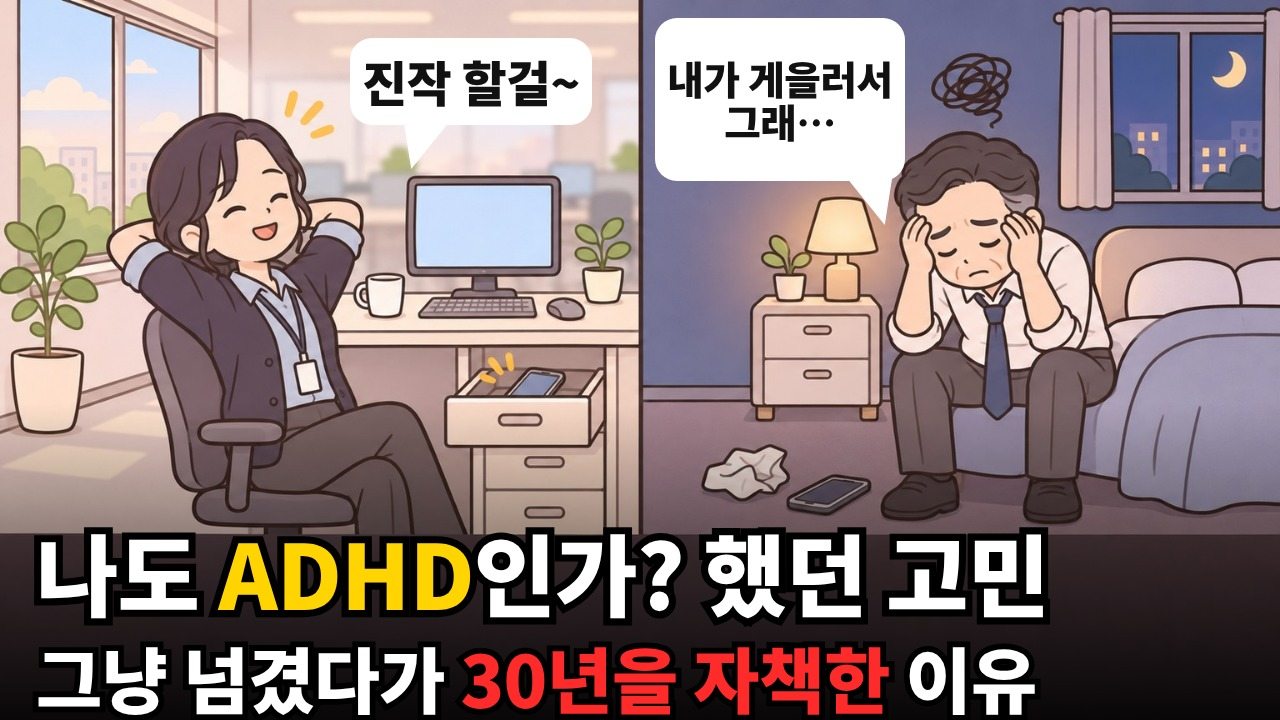
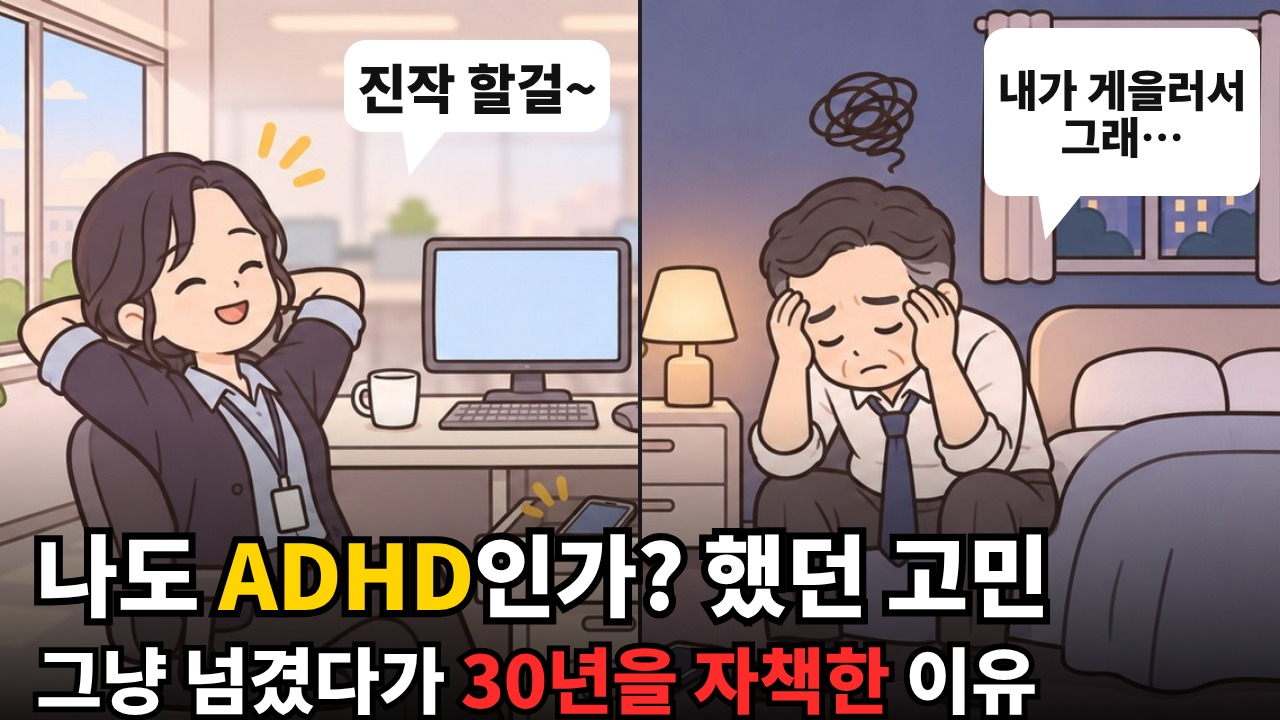
psychology: ADHD 영상 다시 올리기 준비 — 썸네일 그림 화면 끝까지 · 설명란 소개·챕터 ADHD 검색 낱말 · 알려 드립니다 짧게
- thumbs_build.py v1.8: TH-CHAR 아래 어두운 띠를 빼고 A·B 칸을 따로 잘라 1280×720 을 채움, 문구는 그림 위
- upload_sheets.py v1.2: 소개 2줄·챕터 9개(adhd_words.md 낱말) · notice 2줄 · 태그 500자 점검
- youtube.json → youtube_old_20261124.json (PC 업로드 목록에 다시 나오게 · 옛 영상 Va58wN8mnt0 은 스튜디오에서 지움)

Claude-Session: https://claude.ai/code/session_01PYG2MqrRa1FwGcWhbgqN1W

diff --git a/psychology/source/upload_sheets.py b/psychology/source/upload_sheets.py
@@ -1,10 +1,12 @@
 #!/usr/bin/env python3
 # -*- coding: utf-8 -*-
-# VERSION: v1.1 — 2026-11-24 — adhd-ab-2026-11 (사용자 지시 "그냥 하고 업로드 준비해"): 편마다 공개 순서 메모·실험 제목(thumb_tests)·title_fit·관문 메모 · --only · 보조 문구 여러 개
+# VERSION: v1.2 — 2026-11-24 — adhd-ab-2026-11 다시 올리기: 소개 2줄·챕터 이름을 ADHD 검색 낱말로 (`adhd_words.md`) · 알려 드립니다 짧게(편마다 notice) · 태그 500자 점검 — 사용자 지시 "설명을 알려드립니다는 좀 간단하게 써 맨앞 설명과 구간 설명은 알고리즘이 보니까 … ADHD 관련 영상 시청자들에게 추천할 수 있도록 단어 고려해서 써 수정하고 다시 업로드 할 수 있게해"
+# (v1.1) — 2026-11-24 — adhd-ab-2026-11 (사용자 지시 "그냥 하고 업로드 준비해"): 편마다 공개 순서 메모·실험 제목(thumb_tests)·title_fit·관문 메모 · --only · 보조 문구 여러 개
 # 이전 v1.0 — 2026-11-14 — 심리 네 편 업로드 시트 upload.md (사용자 지시 "업로드 시트 만들고 uploads 브랜치에 올려")
 # CHANGELOG
 # | 버전 | 날짜 | 바뀐 것 | 함수 |
 # |---|---|---|---|
+# | v1.2 | 2026-11-24 | 편마다 notice(공통 NOTICE + notice_extra 대신 짧은 글) · reupload 메모 · 태그 길이 점검(YouTube 500자 — 띄어쓰기 있는 태그는 따옴표 2자) · adhd-ab-2026-11 소개·챕터·태그 다시 | EP · build |
 # | v1.1 | 2026-11-24 | adhd-ab-2026-11 · order_note · thumb_tests 실험 제목 · title_fit_note · gate_note · sources_file · --only | EP · build · main |
 # | v1.0 | 2026-11-14 | 최초 — 제목(package.json) · 설명란(소개 2줄 · 챕터 · 출처 · 알려 드립니다 · 해시태그 2) · 챕터 명령 · 태그 · 고정 댓글 · 설정 · 점검 | build · main |
 """psychology/source/<영상ID>/upload.md 를 쓴다 — tools/youtube_upload.py(read_sheet) · tools/upload_pack.py(check) · PC 업로드 화면이 읽는 꼴.
@@ -24,7 +26,7 @@ import time
 from pathlib import Path
 
 ROOT = Path(__file__).resolve().parents[2]
-VERSION = "v1.1"
+VERSION = "v1.2"
 DATE = "2026-11-24"
 CRISIS = "24시간 정신건강 상담 전화 1577-0199 · 자살예방 상담 전화 109 · 당장 위험하면 119"
 NOTICE = ("이 영상은 연구와 상담 글을 바탕으로 한 교육용 콘텐츠이며, 심리 진단이나 치료가 아닙니다.\n"
@@ -106,9 +108,18 @@ EP = {
         "order": 5,
         "instr": "그냥 하고 업로드 준비해",
         "order_note": "이미 올린 심리 4편 다음 — 공개 시각은 PC 업로드 화면 기본(7일 뒤 17:00) 또는 사용자가 정함",
-        "intro": "할 일을 미루고 휴대폰만 보다 하루가 가 버린 적, '혹시 나도 성인 ADHD일까' 고민해 본 적 있나요? 같은 고민 앞에서 바로 검사를 받은 A씨와 그냥 넘긴 B씨의 삶을 비교했습니다.\n"
-                 "병원에서는 무엇을 확인하는지, 치료를 시작하면 무엇이 달라지고 무엇은 그대로인지, 스스로 물어볼 세 가지까지 정리했습니다.",
-        "chapters": "1=두 사람의 고민;8=똑같은 하루;18=갈림길;29=A씨, 알고 난 뒤;41=B씨, 모르고 산 30년;54=숫자로 본 차이;61=애매한 나는?;71=B씨에게 온 순간",
+        # v1.2 다시 올리기 (사용자 지시 2026-11-24 "… 수정하고 다시 업로드 할 수 있게해") — 첫 업로드 기록은 youtube_old_20261124.json
+        "reupload": "첫 업로드 Va58wN8mnt0 (2026-11-24 · 비공개 · 예약 2026-12-01 17:00 KST) → 썸네일(그림을 화면 끝까지)·설명란을 고쳐 **다시 올림**. "
+                    "올리기 전에 스튜디오에서 옛 영상 Va58wN8mnt0 을 지운다 (안 지우면 그 시각에 같은 영상이 하나 더 공개됨 — 반복 콘텐츠). 기록 `youtube_old_20261124.json`.",
+        # v1.2 소개 2줄 = 검색 결과·추천에 보이는 앞부분 → ADHD 영상에서 많이 쓰인 낱말을 앞에 (`psychology/result/topics/adhd_words.md`:
+        #   제목 '성인' 34%·'나도' 4.4배·'치료' 2.9배·'집중력' 2.9배 · 태그 '성인adhd'·'adhd치료'·'adhd증상'·'adhd약'·'adhd진단'·'adhd테스트'·'우울증' 2.7배·'부부' 4.1배)
+        #   — 영상에 실제로 나오는 말만 (공황장애·콘서타처럼 영상에 없는 낱말은 넣지 않음: 오해를 부르는 메타데이터 ✗)
+        "intro": "성인 ADHD 증상일까, 그냥 게으른 걸까? 할 일을 미루고 휴대폰만 보다 '나는 왜 이렇게 게으를까' 자책하던 두 사람 중, 바로 ADHD 검사를 받은 A씨와 '시간 낭비'라며 넘긴 B씨의 삶을 비교했습니다.\n"
+                 "성인 ADHD 진단 과정, ADHD 약 치료와 습관으로 달라진 일상, 모르고 산 30년의 부부 갈등과 우울, ADHD 약물 치료 연구(BMJ 2025), 나도 ADHD인지 스스로 확인할 세 가지까지 정리했습니다.",
+        # v1.2 챕터 이름 = 그 구간에서 실제로 하는 말 + 검색 낱말 (21 = 병원에서 확인하는 것 — 새 구간)
+        "chapters": "1=성인 ADHD일까, 그냥 게으른 걸까;8=ADHD 증상, 미루기와 과몰입;18=ADHD 검사를 받은 사람 vs 넘긴 사람;21=성인 ADHD 진단 과정;"
+                    "29=ADHD 약 먹은 첫날과 1년 뒤 (약과 습관);41=모르고 산 30년, 부부 갈등과 자책;54=ADHD 약물 치료 연구 (BMJ 2025);"
+                    "61=나도 ADHD? 스스로 확인할 3가지;71=아들의 ADHD 진단과 가족력",
         "sources": [
             "국민건강보험공단 ADHD 진료 인원 (20세 이상) — 남인순 의원실 공개(2020~2024) · 권칠승 의원실 공개(2026-09-28, 2020~2025) · 보도: 헤럴드경제 2025-10 · 메디칼타임즈",
             "Zhang L 외 (2025). ADHD drug treatment and risk of suicidal behaviours, substance misuse, accidental injuries, transport accidents, and criminality: emulation of target trials. BMJ, 390, e083658 (스웨덴 등록 자료 · 6~64세 148,581명 · 관찰 연구).",
@@ -122,10 +133,15 @@ EP = {
         "sources_file": "근거.md",
         "notice_extra": ("A씨와 B씨는 실제 댓글을 바탕으로 만든 가상 인물이며, 두 사람의 이야기가 모든 사람에게 같지는 않습니다. 검사를 받아도 ADHD가 아닐 수 있고, "
                          "잠 부족·우울·불안 때문에도 집중은 흐트러집니다. 약은 전문의와 상의해서 정하세요. BMJ 연구는 기록을 비교한 관찰 연구라 차이가 모두 약 덕분이라고 단정할 수 없습니다."),
+        # v1.2 알려 드립니다 = 짧게 (사용자 지시 "알려드립니다는 좀 간단하게 써") — 공통 NOTICE + notice_extra 대신 이 두 줄
+        "notice": ("교육용 영상이며 진단이나 치료를 대신하지 않습니다. A씨·B씨는 실제 댓글을 바탕으로 만든 가상 인물입니다.\n"
+                   "ADHD 여부와 약은 전문의와 상의하세요. BMJ 연구는 관찰 연구라 차이가 모두 약 덕분이라고 단정할 수 없습니다."),
         "crisis": "자살예방 상담 전화 109 · 24시간 정신건강 상담 전화 1577-0199 · 당장 위험하면 119",
         "hashtags": "#성인ADHD #ADHD",
-        "tags": ["성인ADHD", "성인 ADHD", "ADHD", "ADHD 증상", "성인 ADHD 증상", "ADHD 검사", "ADHD 진단", "ADHD 치료", "ADHD 자가진단", "ADHD 테스트",
-                 "나도 ADHD", "집중력", "미루기", "게으름", "자책", "정신건강의학과", "정신과", "우울증", "번아웃", "도파민", "부부 갈등"],
+        # v1.2 태그 = adhd_words.md 2번(실제 ADHD 영상 태그) 중 영상에 나오는 말 — 번아웃·도파민(영상에 없음)은 뺌
+        "tags": ["성인ADHD", "성인 ADHD", "ADHD", "ADHD 증상", "성인 ADHD 증상", "ADHD 검사", "ADHD 진단", "ADHD 치료", "ADHD 약", "ADHD 약물치료",
+                 "ADHD 자가진단", "ADHD 테스트", "ADHD 특징", "나도 ADHD", "집중력", "미루기", "게으름", "자책", "정신건강의학과", "정신과",
+                 "신경정신과", "우울증", "부부 갈등", "가족력"],
         "pin": "'혹시 나도?' 했던 적이 있다면, 세 가지 질문(어릴 때부터 · 두 곳 이상 · 같은 손해 반복) 가운데 몇 개에 해당했는지 남겨 주세요.\n교육용 영상이며 진단이 아닙니다. 판단은 전문의 검사로 해 주세요.",
         "title_fit_note": "`title_fit`: 모바일 홈·검색 2줄 ✅ · PC '다음 동영상' 칸 3줄 ❌ (사용자 제목 — 그대로)",
         "gate_note": "사용자 지시 '일단 지시사항 대로 하지말고'(대본) · '그냥 하고 업로드 준비해' — 대본 이탈·반론 단계는 돌리지 않음",
@@ -156,11 +172,16 @@ def build(ep: str, sp: dict) -> str:
             raise SystemExit(f"[SHEET] {ep} 챕터 문장 번호 {k} 가 대본(1~{n}) 밖")
     names = [p.split("=", 1)[1] for p in sp["chapters"].split(";")]
     desc = (sp["intro"] + "\n\n■ 챕터\n" + "\n".join(f"0:00 {x}" for x in names) + "\n\n■ 출처\n" + "\n".join(f"- {s}" for s in sp["sources"])
-            + "\n\n■ 알려 드립니다\n" + NOTICE + "\n" + sp["notice_extra"] + "\n\n■ 도움받을 곳\n" + sp["crisis"] + "\n\n" + sp["hashtags"])
+            + "\n\n■ 알려 드립니다\n" + (sp.get("notice") or NOTICE + "\n" + sp["notice_extra"])          # v1.2 편마다 짧은 notice
+            + "\n\n■ 도움받을 곳\n" + sp["crisis"] + "\n\n" + sp["hashtags"])
     tags = []
     for t in sp["tags"] + COMMON_TAGS:
         if t not in tags:
             tags.append(t)
+    tag_chars = sum(len(t) + (2 if " " in t else 0) for t in tags) + len(tags) - 1     # v1.2 YouTube 태그 500자 (띄어쓰기 있는 태그는 따옴표 2자 · 쉼표)
+    if tag_chars > 500:
+        raise SystemExit(f"[SHEET] {ep} 태그 {tag_chars}자 > 500 — 뒤쪽 태그를 뺀다")
+    log("META", ep=ep, intro_chars=len(sp["intro"]), desc_chars=len(desc), tags=len(tags), tag_chars=tag_chars, chapters=len(names))
     th = pkg["thumb_main"]
     sub = " · ".join(pkg["thumb_sub"]) if isinstance(pkg.get("thumb_sub"), list) else str(pkg.get("thumb_sub", "")).strip('"')
     if pkg.get("thumb_tests") and pkg["thumb_tests"][0].get("title"):          # v1.1 글이 다른 실험 제목 (사용자 제목)
@@ -179,6 +200,7 @@ def build(ep: str, sp: dict) -> str:
          f"버전: {VERSION} — {DATE} — 최초 (사용자 지시 \"{sp.get('instr', '업로드 시트 만들고 uploads 브랜치에 올려')}\") · 생성 `psychology/source/upload_sheets.py` {VERSION}.",
          f"기준 파일: 대본 `{ep}.txt` ({n}문장) · 오디오 `narration.mp3` · 자막 `{ep}.srt`(align-audio — 실제 오디오) · 영상 `psychology/out/{ep}/final_1080p.mp4`(만스피 꼴 · `video/episodes/{ep}/`) · 썸네일 `thumbnails/thumbnail_1~3.jpg`.",
          "", "> 업로드 채널 = 심리 채널. 연구·교육용 콘텐츠 — 심리 진단·치료가 아님.",
+         *([f"> 🔁 **다시 올리기** — {sp['reupload']}"] if sp.get("reupload") else []),
          "> ⚠ `psychology/youtube_channel.json` 이 아직 없음 → 올리는 도구가 키의 채널을 확인하지 못함. PC 업로드 화면 psychology 탭에는 **심리 채널 키**만 넣는다 (처음 올린 뒤 화면의 '기억'으로 채널 ID 를 남김).",
          "", "## 1. 제목 (본안)", "", "```", title, "```",
          f"- 짝 썸네일 `thumbnail_1.jpg` (「{th[0]} / {th[1]}」 + 말풍선 「{sub}」 — 그림 `images/TH-CHAR.jpg` ChatGPT + 문구 코드 `thumb.mjs`).",

diff --git a/psychology/source/thumbs_build.py b/psychology/source/thumbs_build.py
@@ -1,6 +1,7 @@
 #!/usr/bin/env python3
 # -*- coding: utf-8 -*-
-# VERSION: v1.7 — 2026-11-24 — adhd-ab-2026-11 사용자 제목·문구 3안 + A 말풍선 「진작 할걸~」 한 줄(작게) — 사용자 지시 "제목1 … 제목3 … 이렇게 가고 썸네일 각각 만들어 그리고 글씨 크기 좀 줄여서 한줄에 진작 할걸~ 로 고쳐"
+# VERSION: v1.8 — 2026-11-24 — adhd-ab-2026-11 그림을 화면 끝까지 (아래 어두운 띠 뺌 — 두 칸을 따로 잘라 좌우로) · 문구는 그림 위 · 말풍선은 썸네일 좌표 — 사용자 지시 "썸네일 문구부분은 왜 이미지 영역이 아니야 이미지 꽉채워서 문구넣어야지"
+# (v1.7) — 2026-11-24 — adhd-ab-2026-11 사용자 제목·문구 3안 + A 말풍선 「진작 할걸~」 한 줄(작게) — 사용자 지시 "제목1 … 제목3 … 이렇게 가고 썸네일 각각 만들어 그리고 글씨 크기 좀 줄여서 한줄에 진작 할걸~ 로 고쳐"
 # 이전 v1.6 — 2026-11-24 — adhd-ab-2026-11 A 말풍선 「진작 할걸」 (사용자 지시 "진작 할걸 이렇게 바꾸고")
 # 이전 v1.5 — 2026-11-24 — adhd-ab-2026-11 실험 문구·A 말풍선을 성공 사례 썸네일 분석(thumb_text_patterns.md)으로 — 사용자 지시 "실험형 썸네일 문구 성공 사례 분석해서 한거야? 분석해서 만들고 이유를 아니까를 진작에 할걸(예시) 이런식으로 고쳐봐"
 # 이전 v1.4 — 2026-11-24 — 편마다 3안을 따로 (variants: 안마다 문구 2줄·말풍선 여러 개) — 사용자 지시 "둘다 말풍선 넣고 두번재 줄 괄호 제거해 그리고 나머지 2개는 실험형으로 너가 문구를 만드는 거야"
@@ -12,6 +13,7 @@
 # CHANGELOG
 # | 버전 | 날짜 | 바뀐 것 | 함수 |
 # |---|---|---|---|
+# | v1.8 | 2026-11-24 | 편마다 images(crop·box)·bg 덮어쓰기 · bubbles_px(썸네일 좌표 그대로) — adhd-ab-2026-11 TH-CHAR 아래 26% 어두운 띠를 빼고 왼쪽 칸(A)·오른쪽 칸(B)을 따로 잘라 1280×720 을 채움 | EP · bubble · build_variants |
 # | v1.7 | 2026-11-24 | adhd-ab-2026-11 3안 = 사용자 제목·문구 1~3 · A 말풍선 한 줄 (낮은 상자 → 글씨 작게) | EP |
 # | v1.6 | 2026-11-24 | adhd-ab-2026-11 A 말풍선 「진작 할걸」 (사용자 문구) | EP |
 # | v1.5 | 2026-11-24 | adhd-ab-2026-11 실험 1·2 = 성공 사례 갈래(특징+숫자 · 이유형) · A 말풍선 = 인물 속마음 「진작 검사받을걸!」 | EP |
@@ -70,18 +72,26 @@ EP = {
         "bubble": [1106, 26, 399, 300], "btext": "왜,\n안 어울려?",
         "_": "R 머리(x 50~71% · y 4~39%) 오른쪽 선반·냉장고",
     },
-    # v1.3 — 그림 아래 26% 가 어두운 띠(y 640/864 부터) → 두 줄을 띠 안에 · 말풍선 = B 머리 왼쪽 빈 벽, 꼬리는 오른쪽(B 쪽)으로
+    # v1.8 — 그림 아래 26%(y 640/864 부터)가 어두운 빈 띠 → 문구가 그림 밖에 놓였음 (사용자 지적 2026-11-24).
+    #   그림 칸(y 0~640)만 쓴다: 640 높이로 16:9 를 채우면 폭 1138 < A·B 가 걸친 폭(x 130~1340) → 칸마다 따로 잘라 좌우에 붙임.
+    #   왼쪽 = A 칸 x 112~679 (A 팔꿈치 x≈130 · 모니터 x 490~672 까지) · 오른쪽 = B 칸 x 969~1536 (스탠드·B·낙서 구름·창문) · 가운데 4px 틈 = 원래 칸 나눔 선.
+    #   배율 720/640 = 1.125 — 썸네일 x = (그림 x − 112)×1.125 (왼쪽) · 642 + (그림 x − 969)×1.125 (오른쪽), y = 그림 y×1.125.
     "adhd-ab-2026-11": {
+        "bg": "#24212b",
+        "images": [{"src": "../images/TH-CHAR.jpg", "crop": [112, 0, 567, 640], "box": [0, 0, 638, 720]},
+                   {"src": "../images/TH-CHAR.jpg", "crop": [969, 0, 567, 640], "box": [642, 0, 638, 720]}],
         "l1": [36, 524, 1208, 94], "l2": [36, 616, 1000, 100],
-        # v1.4 두 사람 모두 말풍선 — A 머리 오른쪽 사무실 벽(모니터 위) · B 머리 왼쪽 어두운 벽 (사람·스탠드·낙서 구름을 가리지 않음)
-        "bubbles": [[[420, 46, 290, 104], "진작 할걸~", "right", 0.18], [[786, 22, 300, 196], "내가 게을러서\n그래…", "left", 0.78]],
+        # 말풍선 = 썸네일 좌표 (bubbles_px) — A: 머리(x 76~313 · y 124~371)·반짝 표시(x 256~324) 오른쪽, 모니터(y 236~) 위 사무실 벽
+        #   B: 머리(x 761~964 · y 180~405)·낙서 구름(x 806~919) 오른쪽 창문 (사람·스탠드·구름을 가리지 않음)
+        "bubbles_px": True,
+        "bubbles": [[[344, 40, 266, 92], "진작 할걸~", "right", 0.18], [[984, 28, 276, 168], "내가 게을러서\n그래…", "right", 0.16]],
         "variants": [
             ("1안 — 사용자 제목1·문구1", [[["나도 ", "W"], ["ADHD", "Y"], ["인가? 고민했던 두 사람", "W"]], [["30년 삶의 질이 ", "W"], ["정반대", "Y"], ["가 된 이유", "W"]]]),
             ("2안 — 사용자 제목2·문구2", [[["나도 ", "W"], ["ADHD", "Y"], ["인가? 했던 고민", "W"]], [["30년 삶의 질을 ", "W"], ["바꾼 이유", "Y"]]]),
             ("3안 — 사용자 제목3·문구3", [[["나도 ", "W"], ["ADHD", "Y"], ["인가? 했던 고민", "W"]], [["그냥 넘겼다가 ", "W"], ["30년을 자책한", "R"], [" 이유", "W"]]]),
         ],
-        "note": "1~3안 = 사용자 제목·문구 (2026-11-24) · 말풍선 = 인물 속마음 A 「진작 할걸~」(사용자 문구, 한 줄)·B 「내가 게을러서 그래…」(대본 46번) — persona_loop title 단계는 1안",
-        "_": "B 머리(x 70~82% · y 18~42%) 왼쪽 어두운 벽 (스탠드 x 63~69% · y 27% 아래는 비움) · A 쪽은 비워 둠",
+        "note": "1~3안 = 사용자 제목·문구 (2026-11-24) · 말풍선 = 인물 속마음 A 「진작 할걸~」(사용자 문구, 한 줄)·B 「내가 게을러서 그래…」(대본 46번) — persona_loop title 단계는 1안 · v1.8 그림을 화면 끝까지 (문구는 그림 위)",
+        "_": "A 머리 오른쪽 사무실 벽(모니터 위) · B 머리 오른쪽 창문 — 썸네일 좌표, 사람·스탠드·낙서 구름을 가리지 않음",
     },
 }
 
@@ -94,8 +104,8 @@ def lines(box, frags):
     return {"kind": "lines", "box": box, "align": "left", "valign": "bottom", "lineHeight": 1.05, "stroke": 16, "lines": [frags]}
 
 
-def bubble(rect, text, bg, tail="right", tail_pos=0.18):
-    x, y, w, h = (round(v * K) for v in rect)
+def bubble(rect, text, bg, tail="right", tail_pos=0.18, px=False):
+    x, y, w, h = (round(v) if px else round(v * K) for v in rect)          # v1.8 px=True → 썸네일 좌표 그대로
     return {"kind": "bubble", "x": x, "y": y, "w": w, "h": h, "bg": bg, "color": "K", "text": text, "tail": tail, "tailPos": tail_pos, "tailLen": 54,
             "fill": [0.9, 0.74], "_": "보조 문구 — 머리 옆 빈 곳 (사람을 가리지 않음 · 꼬리는 평평한 아래쪽 18% · tail right = 왼쪽(말하는 사람 쪽)으로 기욺)"}
 
@@ -111,14 +121,18 @@ def build_variants(ep: str, spec: dict, pkg: dict) -> list[Path]:
     out_dir = ROOT / "psychology" / "source" / ep / "thumbnails"
     out_dir.mkdir(exist_ok=True)
     base = {"size": [1280, 720], "shade": [0.56, 0.9], "images": [{"src": "../images/TH-CHAR.jpg", "box": [0, 0, 1280, 720]}]}
+    if "images" in spec:                                    # v1.8 편마다 그림 자르기 (어두운 빈 띠 빼고 화면 끝까지)
+        base.update(images=spec["images"], bg=spec.get("bg", "#000"))
     l1, l2 = spec.get("l1", L1), spec.get("l2", L2)
+    px = spec.get("bubbles_px", False)
     paths = []
     for i, (name, main) in enumerate(spec["variants"], 1):
         d = dict(base)
         d["_설명"] = (f"{name} (2026-11-24 — 사용자 지시 \"둘다 말풍선 넣고 두번재 줄 괄호 제거해 그리고 나머지 2개는 실험형으로 너가 문구를 만드는 거야\") — "
-                     f"짝 제목 「{pkg['title']}」 · {spec.get('note', '')} · 그림 = images/TH-CHAR.jpg · 말풍선 자리: {spec['_']}")
+                     f"짝 제목 「{pkg['title']}」 · {spec.get('note', '')} · 그림 = images/TH-CHAR.jpg"
+                     f"{' (자르기 ' + ' + '.join(str(im['crop']) for im in spec['images']) + ')' if 'images' in spec else ''} · 말풍선 자리: {spec['_']}")
         d["out"] = f"thumbnail_{i}.jpg"
-        d["blocks"] = [lines(l1, main[0]), lines(l2, main[1])] + [bubble(r, t, "W", tl, tp) for r, t, tl, tp in spec["bubbles"]]
+        d["blocks"] = [lines(l1, main[0]), lines(l2, main[1])] + [bubble(r, t, "W", tl, tp, px) for r, t, tl, tp in spec["bubbles"]]
         p = out_dir / f"thumbnail_{i}.json"
         p.write_text(json.dumps(d, ensure_ascii=False, indent=1), encoding="utf-8")
         paths.append(p)

diff --git a/guides/status.md b/guides/status.md
@@ -1,6 +1,7 @@
 # 지금 상태·다음 할 일 (인수인계)
 
-버전: v4.58 — 2026-11-24 — **심리 — ADHD 영상 업로드 준비** (사용자 지시 "그냥 하고 업로드 준비해"): 제목 1~3안 = 사용자 문구(1안 페르소나 title 4회차 ✅ · 2·3안 = 스튜디오 테스트) · `psychology/source/upload_sheets.py` v1.1 → `psychology/source/adhd-ab-2026-11/upload.md` (챕터 8 · 출처 · 알림 · 109/1577-0199 · 태그 30) · `tools/upload_pack.py check` ✅ → `pack` (uploads 브랜치 · video.json 60MB 1조각). 다음: 사용자 PC `유튜브_업로드.bat` → psychology 탭 → [미리보기] → [업로드] (7일 뒤 17:00 예약) · 대본 페르소나 이탈·반론 단계는 사용자 지시로 건너뜀
+버전: v4.59 — 2026-11-24 — **심리 — ADHD 영상 다시 올리기 준비** (사용자 지시 "썸네일 문구부분은 왜 이미지 영역이 아니야 이미지 꽉채워서 문구넣어야지 그리고 설명을 알려드립니다는 좀 간단하게 써 맨앞 설명과 구간 설명은 알고리즘이 보니까 … ADHD 관련 영상 시청자들에게 추천할 수 있도록 단어 고려해서 써 수정하고 다시 업로드 할 수 있게해"): ① 썸네일 3안 = 그림이 1280×720 을 채움 (`thumbs_build.py` v1.8 — TH-CHAR 아래 어두운 띠를 빼고 A 칸·B 칸을 따로 잘라 좌우로 · 문구는 그림 위 · 말풍선은 A 모니터 위·B 창문, 사람을 가리지 않음 · 문구 글자는 그대로) ② 설명란 (`upload_sheets.py` v1.2) — 소개 2줄·챕터 9개를 ADHD 영상 검색 낱말로 (`psychology/result/topics/adhd_words.md` — 성인 ADHD 증상·검사·진단·약·치료·부부 갈등·나도 ADHD, 영상에 없는 낱말은 넣지 않음) · 챕터 21번(진단 과정) 새로 · `srt_tool upload` ✅ · 알려 드립니다 2줄 · 태그 33개(226자) ③ 다시 올리기 — 첫 업로드 기록 `youtube.json` → `youtube_old_20261124.json` (main 에 youtube.json 이 없어 PC 업로드 목록에 다시 나옴 · `upload_pack.py check` ✅ · 영상 조각은 uploads 브랜치 그대로, sha 같음). **사용자 할 일: 스튜디오에서 옛 영상 Va58wN8mnt0 지우기 → `유튜브_업로드.bat` → psychology → [미리보기] → [업로드].**
+이전 v4.58 — 2026-11-24 — **심리 — ADHD 영상 업로드 준비** (사용자 지시 "그냥 하고 업로드 준비해"): 제목 1~3안 = 사용자 문구(1안 페르소나 title 4회차 ✅ · 2·3안 = 스튜디오 테스트) · `psychology/source/upload_sheets.py` v1.1 → `psychology/source/adhd-ab-2026-11/upload.md` (챕터 8 · 출처 · 알림 · 109/1577-0199 · 태그 30) · `tools/upload_pack.py check` ✅ → `pack` (uploads 브랜치 · video.json 60MB 1조각). 다음: 사용자 PC `유튜브_업로드.bat` → psychology 탭 → [미리보기] → [업로드] (7일 뒤 17:00 예약) · 대본 페르소나 이탈·반론 단계는 사용자 지시로 건너뜀
 이전 v4.57 — 2026-11-24 — **심리 — ADHD 썸네일 A 말풍선 「진작 할걸」 + ADHD 영상 많이 쓰인 낱말** (사용자 지시 "진작 할걸 이렇게 바꾸고 ADHD 관련 영상에서 많이 쓰인 단어 알려줘봐"): `thumbs_build.py` v1.6 · 새 도구 `psychology/source/adhd_words.py` v1.0 → `psychology/result/topics/adhd_words.md` (ADHD 영상 137개 제목 낱말·태그 97개 — 성인 34% · 이유 15% · 나도 상위 25% 쪽 4.4배 · 가지·자가진단·증상은 조회수 낮은 쪽)
 이전 v4.56 — 2026-11-24 — **심리 — 성공 사례 썸네일 문구 갈래 분석 + ADHD 썸네일 실험안** (사용자 지시 "실험형 썸네일 문구 성공 사례 분석해서 한거야? 분석해서 만들고 이유를 아니까를 진작에 할걸(예시) 이런식으로 고쳐봐"): 새 도구 `psychology/source/thumb_text_patterns.py` v1.0 → `psychology/result/outliers/thumb_text_patterns.md` (성공 사례 94장 · 주요 문구 이유형 배수 54.2 · 특징·비밀형 52.0 · 숫자 44.1 · 전체 30.0 · 보조 문구 인물 속마음 57.5) → ADHD 실험 1 「게으름인 줄 알았던 성인 ADHD / 스스로 확인할 3가지」 · 실험 2 「똑같이 미루던 두 사람 / 삶이 갈린 진짜 이유」 · A 말풍선 「진작 검사받을걸!」 (`thumbs_build.py` v1.5). 남은 것: 제목 → persona_loop title 단계
 이전 v4.55 — 2026-11-24 — **심리 — ADHD 썸네일 3안 다시** (사용자 지시 "둘다 말풍선 넣고 두번재 줄 괄호 제거해 그리고 나머지 2개는 실험형으로 너가 문구를 만드는 거야"): 본안 「나도 ADHD인가? 고민했던 두 사람 / 한 명은 30년을 자책했다」 · 실험 1 「ADHD 검사, 시간 낭비일까? / 안 받은 사람의 30년」 · 실험 2 「게으른 줄 알았던 두 사람 / 한 명만 진짜 이유를 알았다」 · 말풍선 A 「이유를 아니까 편해」 · B 「내가 게을러서 그래…」 (`thumbs_build.py` v1.4 · `package.json` thumb_tests). 남은 것: 제목 → persona_loop title 단계

diff --git a/psychology/README.md b/psychology/README.md
@@ -1,6 +1,7 @@
 # 심리 주제 폴더 (`psychology/`) — 클라우드에서 분석
 
-VERSION: v1.9 — 2026-11-24 — **ADHD 영상 v2.0 — 사용자 피드백 반영**: 화면 위 안내 문구·장 제목 화면 없음(인물 설명 이름표만) · 장이 바뀌면 화면을 쓸고 지나가는 전환 · 배경 없는 판 대신 장면 그림을 어둡게 한 위 설명 카드 · 말풍선은 보이는 반쪽 안 (`video/scripts/bubble-check.mjs` 0) · 내레이션 문장 가장자리 정리 `tools/edge_clean.py` · 도입 추가 그림 요청 `source/adhd-ab-2026-11/images_chatgpt_add.md` (`source/images_build_toon.py` v1.1)
+VERSION: v1.10 — 2026-11-24 — **ADHD 영상 다시 올리기 준비**: 썸네일 그림을 화면 끝까지(`source/thumbs_build.py` v1.8) · 설명란 소개·챕터를 ADHD 검색 낱말로 · 알려 드립니다 짧게(`source/upload_sheets.py` v1.2) · 첫 업로드 기록 `youtube_old_20261124.json` (옛 영상 Va58wN8mnt0 은 사용자가 스튜디오에서 지움)
+(v1.9) — 2026-11-24 — **ADHD 영상 v2.0 — 사용자 피드백 반영**: 화면 위 안내 문구·장 제목 화면 없음(인물 설명 이름표만) · 장이 바뀌면 화면을 쓸고 지나가는 전환 · 배경 없는 판 대신 장면 그림을 어둡게 한 위 설명 카드 · 말풍선은 보이는 반쪽 안 (`video/scripts/bubble-check.mjs` 0) · 내레이션 문장 가장자리 정리 `tools/edge_clean.py` · 도입 추가 그림 요청 `source/adhd-ab-2026-11/images_chatgpt_add.md` (`source/images_build_toon.py` v1.1)
 (v1.8 — 2026-11-24 — **ADHD A씨 vs B씨 영상 (일상툰)** (사용자 지시 "아침 6시에 음성, 이미지 올라온거 확인하고 다 돼면 영상 만들어봐"): 음성(`tts_narration` v1.18.1, 81문장 5분 36초 — 귀로 확인할 문장 8개 `source/adhd-ab-2026-11/audio_check.md`) · ChatGPT 그림 41장 검수(그림체·인물 같음, 글자 없음) → `source/puppet_slice.py` v1.1 (조연 시트 `W-POSES` 꼴 · 일상툰 앉은 키 비율 0.85) 86조각 → 장면 `video/episodes/adhd-ab-2026-11/index.html` v1.1 (A·B 반반 화면 · 숫자 판 · 배치 검사 0 · 렌더 검사 0) → `psychology/out/adhd-ab-2026-11/final_1080p.mp4` (git 밖))
 (v1.7 — 2026-11-23 — **주제 하나의 성공 사례 찾기 — 우울증 증상** (사용자 지시 "우울증 증상과 관련된 성공 사례 영상 찾아서 알려줘봐"): `source/topic_success.py` v1.0.0 (주제마다 검색어·낱말을 TOPICS 에 더해 씀) → `result/topics/depression.md`·`.csv` — 최근 180일 우울 영상 239개 중 성공 4 · 거의 성공 10 · 제목이 증상·신호 쪽인 성공은 0 (검색 10번 1,009단위) · 채널 목록 `source/psych_channels.py` v1.0.1 → `result/channels/psych_channels.md`.)
 (v1.6 — 2026-11-23 — **'어느 순간 가스라이팅이 된' 실제 사례 17건** (사용자 지시 "그러니까 1번 심리가 초래한 실제 사례들을 찾아보라고 사람들이 모르고 있지만 그게 가스라이팅이 어느 순간 된거지 그런거" · "그래 조사 끝나면 사례 정리해서 보여줘"): `source/gaslighting_cases.md` (사례 카드 — 관계·평범했던 시작·바뀐 순간·왜 못 벗어났나·판결·출처·확실성 · 공통 6단계 · 법원 판단 · 판단) · `incident_cases.py` v1.2.0 (가스라이팅 검색어 6개, 1,244단위) · 댓글 `source/gaslight_comments.py` v1.0.1 → `result/incidents/gaslight_comments.md`.)
